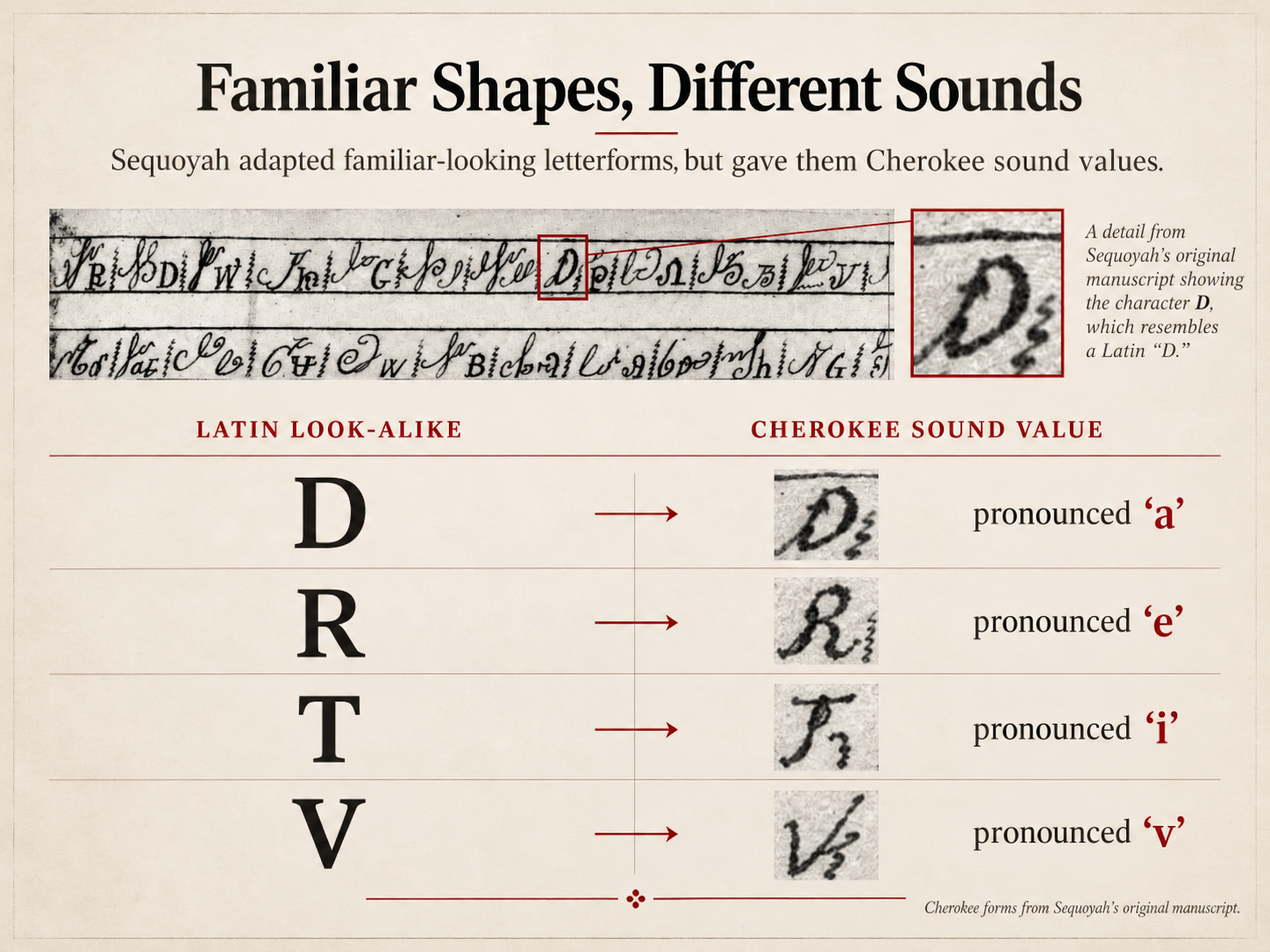
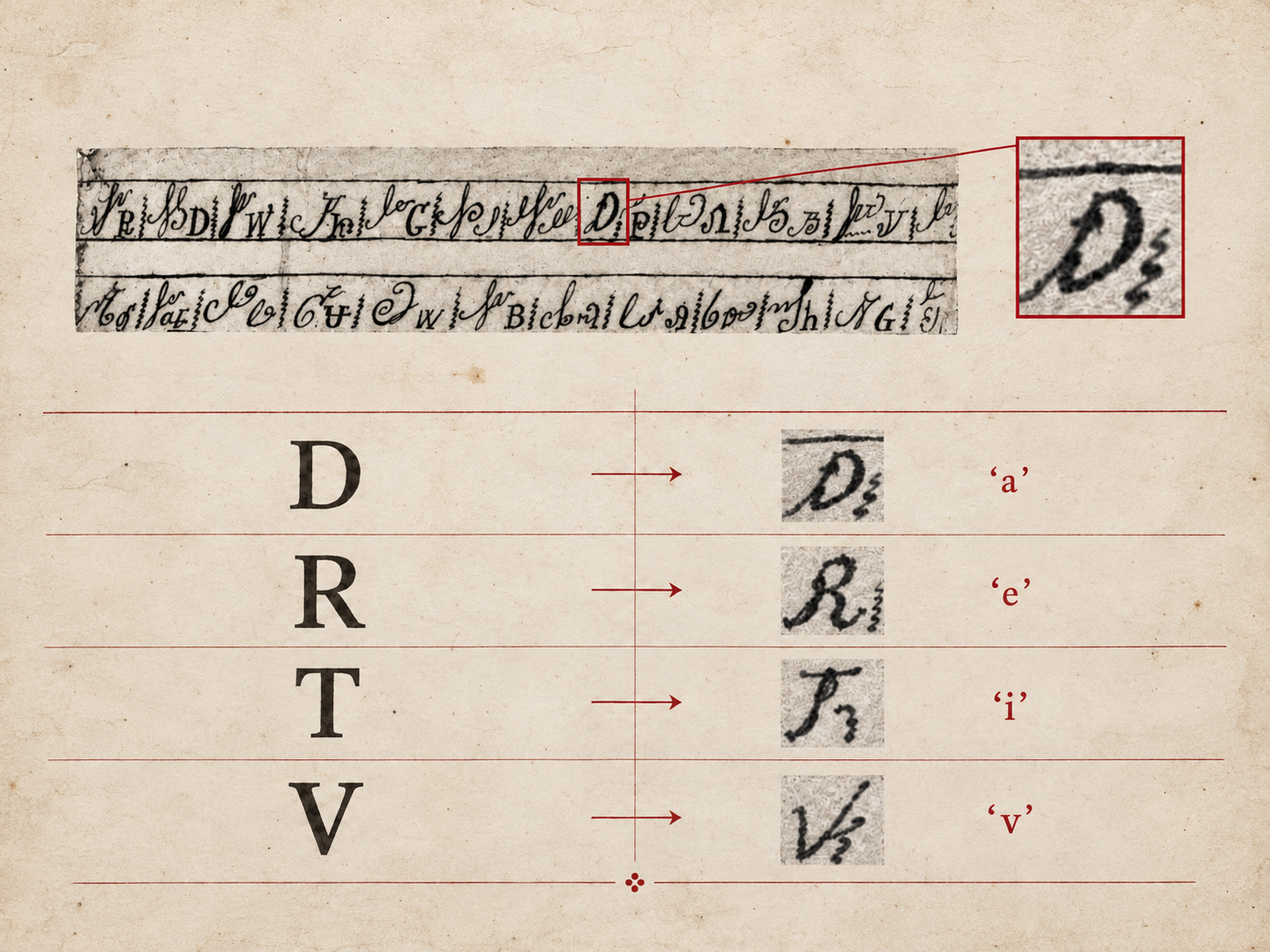
Add files via upload

diff --git a/index.html b/index.html
@@ -1,4 +1,4 @@
-<!doctype html><html lang="en"><head><meta charset="utf-8"><meta name="viewport" content="width=device-width, initial-scale=1"><meta name="description" content="Literacy gave the Cherokee standing to argue, not the power to decide. The standard for “civilization” was never theirs to set."><title>The Talking Leaves</title><link rel="stylesheet" href="styles.css"><script src="script.js" defer></script></head><body id="top"><a class="skip" href="#article">Skip to article</a><header class="masthead"><span>HISTORY / LANGUAGE / POWER</span></header><main><article id="article"><header class="hero"><div class="eyebrow">A history in writing</div><h1 data-original="0">The Talking Leaves</h1><p class="subtitle" data-original="1">Literacy gave the Cherokee standing to argue, not the power to decide. The standard for “civilization” was never theirs to set.</p><div class="hero-rule"><span>SEQUOYAH &amp; THE CHEROKEE NATION</span><span>1821 — TODAY</span></div></header>
+<!doctype html><html lang="en"><head><meta charset="utf-8"><meta name="viewport" content="width=device-width, initial-scale=1"><meta name="description" content="Literacy gave the Cherokee standing to argue, not the power to decide. The standard for “civilization” was never theirs to set."><title>The Talking Leaves</title><link rel="stylesheet" href="styles.css?v=portrait-oval-2"><script src="script.js" defer></script></head><body id="top"><a class="skip" href="#article">Skip to article</a><main><article id="article"><header class="hero"><div class="hero-copy"><h1 data-original="0">The Talking Leaves</h1><p class="subtitle" data-original="1">Literacy gave the Cherokee standing to argue, not the power to decide. The standard for “civilization” was never theirs to set.</p></div><figure class="hero-portrait"><img src="sequoyah-portrait.png" width="3308" height="4000" alt="Portrait of Sequoyah pointing to a tablet of Cherokee syllabary characters." fetchpriority="high"></figure></header>
 <section class="chapter" aria-labelledby="section-2"><h2 id="section-2" data-original="2">Nobody Believed Him</h2>
 <p data-original="3">Ayoka learned her father’s characters quickly. Each one stood for a syllable in the Cherokee language, and when he brought her before Cherokee leaders in the summer of 1821, nobody believed what he was about to claim.</p>
 <p data-original="4">He said he had found a way to write down the Cherokee language. They were not impressed. To them, a man who knew no English had no business inventing a script, and some in the room suspected he was practising something closer to witchcraft than scholarship.</p>
@@ -16,12 +16,12 @@
 <section class="chapter" aria-labelledby="section-14"><h2 id="section-14" data-original="14">He Took Their Shapes and Refused Their Sounds</h2>
 <p data-original="15">Sequoyah did not invent his characters out of thin air. He took the shapes off a page of English.</p>
 <p data-original="16">He went looking for a Bible or a spelling book to study the letterforms, unable to read a word of what he was looking at. He copied the shapes and gave them Cherokee values instead. His most famous character, Ꭰ, looks exactly like a Latin D. In Cherokee it is read “a.” The same trick recurs throughout the set of characters.</p>
-<figure class="archive-image" data-after="16"><img src="images/cherokee-syllabary-comparison.png" width="1448" height="1086" alt="Comparison of Latin-looking letterforms and Cherokee syllabary characters showing that familiar shapes carry different Cherokee sound values." loading="lazy" decoding="async"><figcaption>Familiar shapes, different sounds. Cherokee forms from Sequoyah’s original manuscript.</figcaption></figure>
+<figure class="archive-image" data-after="16"><img src="cherokee-syllabary-comparison.png" width="1448" height="1086" alt="Comparison of Latin-looking letterforms and Cherokee syllabary characters showing that familiar shapes carry different Cherokee sound values." loading="lazy" decoding="async"><figcaption>Familiar shapes, different sounds.</figcaption></figure>
 <p data-original="17">The usual version of this story treats him as a genius who could not read. Recent scholarship, most thoroughly by <a href="https://www.researchgate.net/publication/261929334_The_Cherokee_Syllabary_from_Script_to_Print" target="_blank" rel="noopener noreferrer">Ellen Cushman</a>, reads the syllabary instead as a Cherokee technology that helped shape Cherokee identity and strengthen the Nation’s political standing. “He could not read” is true, and it is also the framing that keeps the story safely inside an alphabetic worldview, where the only way to invent writing is to almost copy someone else’s. Whatever scholars later made of it, the syllabary worked.</p>
 <p data-original="18">Within a few years it had spread across the Nation, and by 1827 the Cherokee had a constitution of their own, with three branches and a two-house legislature, modelled on the United States Constitution.</p>
 <p data-original="19">Next came a printing press. The script had no type, so the Nation sent a young Cherokee named <a href="https://teachingamericanhistory.org/document/an-address-to-the-whites/" target="_blank" rel="noopener noreferrer">Elias Boudinot</a> north to raise money, and the missionary Samuel Worcester arranged for a font to be cast in Boston.</p>
 <p data-original="20">On February 21, 1828, the <a href="https://www.wcu.edu/library/digitalcollections/CherokeePhoenix/Vol1/no01/" target="_blank" rel="noopener noreferrer">first issue of the Cherokee Phoenix</a> came off that press, a weekly in Cherokee and English, edited by Boudinot and published by a nation Georgia insisted did not exist.</p>
-<figure class="archive-image" data-after="20"><a href="https://commons.wikimedia.org/wiki/File:Cherokee_Phoenix_first_issue.jpg" target="_blank" rel="noopener noreferrer"><img src="images/cherokee-phoenix-1828.jpg" width="1918" height="2880" alt="First issue of the Cherokee Phoenix newspaper from February 21, 1828, printed in Cherokee and English." loading="lazy" decoding="async"></a><figcaption>The first issue of the Cherokee Phoenix, February 21, 1828. Public domain. Source: American Antiquarian Society / Wikimedia Commons.</figcaption></figure>
+<figure class="archive-image" data-after="20"><a href="https://commons.wikimedia.org/wiki/File:Cherokee_Phoenix_first_issue.jpg" target="_blank" rel="noopener noreferrer"><img src="cherokee-phoenix-1828.jpg" width="1918" height="2880" alt="Upper half of the first issue of the Cherokee Phoenix, February 21, 1828, showing its masthead and Cherokee and English columns." loading="lazy" decoding="async"></a><figcaption>The first issue of the Cherokee Phoenix, February 21, 1828.</figcaption></figure>
 </section>
 <section class="chapter" aria-labelledby="section-21"><h2 id="section-21" data-original="21">They Won the Case Nobody Enforced</h2>
 <p data-original="22">Georgia had wanted the Cherokee gone since 1802, when it traded away its western land claims to Washington for a federal promise to clear Native people out of the state. By the 1820s its politicians were demanding that Washington keep that promise, and when <a href="https://www.georgiaencyclopedia.org/articles/counties-cities-neighborhoods/dahlonega/" target="_blank" rel="noopener noreferrer">gold turned up near Dahlonega</a> the state stopped waiting. It extended its laws over the Nation, surveyed Cherokee land, and began handing it out by lottery to white residents. In 1830 Congress passed the Indian Removal Act, giving the whole scheme federal backing.</p>
@@ -35,7 +35,7 @@
 <section class="chapter" aria-labelledby="section-29"><h2 id="section-29" data-original="29">The Standard Moved Every Time They Reached It</h2>
 <p data-original="30">White Americans came to call the Cherokee, Choctaw, Chickasaw, Creek and Seminole the “Five Civilized Tribes,” a label that sounded like praise but was really a shortlist assembled by people who had already decided what civilization looked like. In 1893, Congress used it to name the <a href="https://www.archives.gov/research/native-americans/dawes" target="_blank" rel="noopener noreferrer">commission</a> created to negotiate land allotment agreements that would ultimately dismantle their tribal governments.</p>
 <p data-original="31">Cherokee leaders had done nearly everything those standards called for: a written constitution, representative government, schools, settled farms. Recognition stayed conditional, and the terms kept changing. For decades U.S. officials had <a href="https://www.georgiaencyclopedia.org/articles/history-archaeology/cherokee-removal/" target="_blank" rel="noopener noreferrer">urged the Cherokee</a> to give up hunting and farm like white American settlers. Many did, and the pressure to leave only grew. The standard kept moving because the conflict was never really about literacy. It was about land, and who had the power to decide.</p>
-<figure class="archive-image" data-after="31"><a href="https://www.loc.gov/item/99446145/" target="_blank" rel="noopener noreferrer"><img src="images/royce-1884-cherokee-cessions.png" width="1313" height="1198" alt="Color-coded nineteenth-century map of the southeastern United States showing Cherokee territorial limits and land cessions made by treaty." loading="lazy" decoding="async"></a><figcaption>Adapted from Charles C. Royce’s 1884 map of Cherokee territorial limits and treaty cessions. Annotations added. Library of Congress, Geography and Map Division. <a href="https://www.loc.gov/item/99446145/" target="_blank" rel="noopener noreferrer">View full-size original map</a></figcaption></figure>
+<figure class="archive-image" data-after="31"><a href="https://www.loc.gov/item/99446145/" target="_blank" rel="noopener noreferrer"><img src="royce-1884-cherokee-cessions.png" width="1313" height="1198" alt="Color-coded nineteenth-century map of the southeastern United States showing Cherokee territorial limits and land cessions made by treaty." loading="lazy" decoding="async"></a><figcaption>Cherokee territorial limits and treaty cessions. Charles C. Royce, 1884; annotations added. <a href="https://www.loc.gov/item/99446145/" target="_blank" rel="noopener noreferrer">View full-size original map</a></figcaption></figure>
 <p data-original="32">Native leaders answered the colonizers’ standard in the colonizers’ own language, filing <a href="https://www.jstor.org/stable/44982305" target="_blank" rel="noopener noreferrer">letters, petitions and memorials</a> in English. It was not enough to stop removal.</p>
 <p data-original="33">The Nation’s most fluent writers lost the argument, and one of them signed the treaty that took the land. Boudinot had helped raise the money for the Phoenix and edited it until 1832, when he decided removal could not be stopped and wanted the paper to debate it. Chief John Ross forbade the Phoenix to print a word in favor of removal, and <a href="https://www.wcu.edu/library/DigitalCollections/CherokeePhoenix/Vol4/no52/cherokee-phoenix-page-2-column-3a-page-3-column-1a.html" target="_blank" rel="noopener noreferrer">Boudinot resigned</a>. The Nation’s own newspaper would not carry the argument he wanted to make, so he made it elsewhere, and in the end he made it with his signature.</p>
 <p data-original="34">Writing serves whoever picks it up. It carried an argument for staying and an argument for leaving, and it could not decide between them.</p>
@@ -44,4 +44,4 @@
 <p data-original="36">The records survived. The Phoenix can still be read today in both its languages, and the constitution and court briefs survive beside it. That record kept Cherokee resistance visible in the archives and institutions that later told the story of removal. The Potawatomi, driven from Indiana in the same autumn of 1838 on a march their descendants call the <a href="https://www.potawatomiheritage.com/encyclopedia/trail-of-death/" target="_blank" rel="noopener noreferrer">Trail of Death</a>, received less attention.</p>
 <p data-original="37">The language is another matter. In Tahlequah, Oklahoma, Cherokee Nation runs an immersion school where young children learn the syllabary as their way into a language most of their own grandparents no longer speak fluently. <a href="https://nisnresourcehub.org/wp-content/uploads/2021/01/Learning-to-Read-and-Write-Cherokee.pdf" target="_blank" rel="noopener noreferrer">Researchers who have studied the program</a> describe it less as a return to how Cherokee was once spoken than as an ongoing negotiation between two languages, carried out by children who move between them without much trouble. It is not the voice Ayoka read aloud in 1821. But it is not silence, either.</p>
 <p data-original="38">Writing did not stop the removal, and it has not saved the language. The United States could force the Cherokee west, but it could not write the last page. More than two hundred years after Ayoka read her father’s words aloud, children in Tahlequah are still reading Cherokee, in the characters he created.</p>
-</section></article><aside class="viewing" aria-labelledby="viewing-title"><div class="eyebrow" id="viewing-title">Further Viewing</div><a class="video-link" href="https://www.youtube.com/watch?v=7LSkfmCj8Jg" target="_blank" rel="noopener noreferrer"><span class="play" aria-hidden="true">▷</span><span><strong>Trail of Tears National Historic Trail</strong><small>National Park Service × Cherokee Nation · Watch on YouTube ↗</small></span></a></aside></main></body></html>
+</section></article><aside class="viewing" aria-labelledby="viewing-title"><div class="eyebrow" id="viewing-title">Further Viewing</div><a class="video-link" href="https://www.youtube.com/watch?v=7LSkfmCj8Jg" target="_blank" rel="noopener noreferrer"><span class="video-poster"><img src="royce-1884-cherokee-cessions.png" alt="" width="1313" height="1198" loading="lazy"><span class="play" aria-hidden="true">▶</span></span><span><strong>Trail of Tears National Historic Trail</strong><small>National Park Service × Cherokee Nation · Watch on YouTube ↗</small></span></a></aside></main></body></html>

diff --git a/styles.css b/styles.css
@@ -1,4 +1,40 @@
-:root{--paper:#e8ddb6;--ink:#161817;--muted:#5b604e;--rule:#aaa181;--accent:#633333;--dark:#161817;--dark-text:#ecede8}*{box-sizing:border-box}html{scroll-padding-top:30px}body{margin:0;background:var(--paper);color:var(--ink);font-family:Georgia,'Times New Roman','Nirmala UI',serif;font-size:18px;line-height:1.8}a{color:var(--accent);text-decoration-thickness:1px;text-underline-offset:3px}a:hover{color:#402020}a:focus-visible{outline:2px solid var(--accent);outline-offset:5px}::selection{background:#a9b4b9;color:#111}.skip{position:absolute;left:20px;top:-100px;padding:10px;background:var(--paper)}.skip:focus{top:10px}.masthead{max-width:1100px;margin:0 auto;padding:26px 0 18px;border-bottom:1px solid var(--rule);display:flex;justify-content:space-between;gap:20px;font:10px/1.5 Arial,sans-serif;letter-spacing:.13em}.masthead a{color:var(--muted);letter-spacing:.03em}main{padding:0 24px}.hero{max-width:960px;margin:90px auto 70px}.eyebrow{font:10px/1.6 Arial,sans-serif;text-transform:uppercase;letter-spacing:.2em;color:var(--muted)}h1{font-size:clamp(4.5rem,9vw,7.8rem);font-weight:400;line-height:.98;letter-spacing:-.058em;max-width:850px;margin:25px 0 32px}.subtitle{font-size:1.45rem;line-height:1.5;max-width:710px;color:#41484b;margin:0}.hero-rule{margin-top:42px;border-top:1px solid var(--rule);padding-top:14px;display:flex;justify-content:space-between;gap:16px;font:9px/1.5 Arial,sans-serif;letter-spacing:.15em;color:var(--muted)}.chapter{max-width:720px;margin:0 auto 58px}.chapter h2{font:700 14px/1.6 Arial,sans-serif;letter-spacing:.12em;border-top:1px solid var(--rule);padding-top:19px;margin:0 0 27px;color:#2c3032}.chapter p{margin:0 0 24px}.chapter .reading-moment{font-size:1.4rem;line-height:1.55;margin:40px 0}.archive-image{width:min(900px,calc(100vw - 48px));margin:40px 0 44px;position:relative;left:50%;transform:translateX(-50%)}img{display:block;width:100%;height:auto}.archive-image figcaption{font:12px/1.65 Arial,sans-serif;color:#42494c;border-bottom:1px solid var(--rule);padding:13px 0 16px;max-width:100%;overflow-wrap:anywhere}.archive-image figcaption a{white-space:normal}.chapter .pull-quote{width:min(870px,calc(100vw - 48px));position:relative;left:50%;transform:translateX(-50%);background:var(--dark);color:var(--dark-text);font-size:2.1rem;line-height:1.4;padding:52px 58px;margin:44px 0;letter-spacing:-.015em}.viewing{max-width:720px;margin:70px auto 68px;border-top:1px solid var(--rule);padding-top:20px}.video-link{display:flex;align-items:center;gap:22px;padding:22px 0;text-decoration:none}.video-link strong{display:block;font-size:20px;font-weight:400;line-height:1.4}.video-link small{display:block;font:11px/1.7 Arial,sans-serif;color:var(--muted);margin-top:9px}.play{font:40px/1 Georgia,serif}footer{max-width:960px;margin:auto;border-top:1px solid var(--rule);padding:28px 0 24px;font:12px/1.7 Arial,sans-serif;color:var(--muted)}footer h2{font:400 28px/1.3 Georgia,serif;color:var(--ink);margin:0 0 30px}.source-columns{display:grid;grid-template-columns:1fr 1.5fr;gap:64px}footer h3{font-size:10px;text-transform:uppercase;letter-spacing:.14em;font-weight:400}footer ul{list-style:none;padding:0;margin:16px 0}footer li{margin:0 0 12px}footer a{color:#41474a}.endline{margin-top:40px;padding-top:18px;border-top:1px solid var(--rule);display:flex;justify-content:space-between}.endline span{font-family:Georgia,serif;font-size:16px}@media(max-width:1150px){.masthead{margin:0 24px}}@media(max-width:767px){body{font-size:17px;line-height:1.8}main{padding:0 21px}.masthead{margin:0 21px;font-size:8px;letter-spacing:.06em}.masthead a{max-width:100px;text-align:right}.hero{margin:56px auto 48px}h1{font-size:clamp(3.2rem,14vw,4.8rem);letter-spacing:-.055em;margin:22px 0 26px}.subtitle{font-size:1.22rem}.hero-rule{font-size:8px;margin-top:30px;letter-spacing:.06em}.chapter h2{font-size:12px;letter-spacing:.09em}.chapter{margin-bottom:44px}.archive-image{width:100%;left:auto;transform:none;margin:30px 0}.chapter .pull-quote{width:100%;left:auto;transform:none;padding:34px 24px;font-size:1.7rem}.source-columns{grid-template-columns:1fr;gap:18px}.viewing{margin:48px auto}.video-link{gap:16px}.video-link strong{font-size:18px}}@media print{body{background:white;color:black}.masthead,.viewing,.endline,.skip{display:none}.hero{margin-top:20px}h1{font-size:60px}.chapter .pull-quote{background:none;color:black;border:1px solid black}.archive-image{break-inside:avoid}a{color:inherit}}
+:root{--paper:#f2ead2;--ink:#161817;--muted:#5b604e;--rule:#aaa181;--accent:#633333;--dark:#161817;--dark-text:#ecede8}*{box-sizing:border-box}html{scroll-padding-top:30px}body{margin:0;background:var(--paper);color:var(--ink);font-family:Georgia,'Times New Roman','Nirmala UI',serif;font-size:18px;line-height:1.8}a{color:var(--accent);text-decoration-thickness:1px;text-underline-offset:3px}a:hover{color:#402020}a:focus-visible{outline:2px solid var(--accent);outline-offset:5px}::selection{background:#a9b4b9;color:#111}.skip{position:absolute;left:20px;top:-100px;padding:10px;background:var(--paper)}.skip:focus{top:10px}.masthead{max-width:1100px;margin:0 auto;padding:26px 0 18px;border-bottom:1px solid var(--rule);display:flex;justify-content:space-between;gap:20px;font:10px/1.5 Arial,sans-serif;letter-spacing:.13em}.masthead a{color:var(--muted);letter-spacing:.03em}main{padding:0 24px}.hero{max-width:960px;margin:90px auto 70px}.eyebrow{font:10px/1.6 Arial,sans-serif;text-transform:uppercase;letter-spacing:.2em;color:var(--muted)}h1{font-size:clamp(4.5rem,9vw,7.8rem);font-weight:400;line-height:.98;letter-spacing:-.058em;max-width:850px;margin:25px 0 32px}.subtitle{font-size:1.45rem;line-height:1.5;max-width:710px;color:#41484b;margin:0}.hero-rule{margin-top:42px;border-top:1px solid var(--rule);padding-top:14px;display:flex;justify-content:space-between;gap:16px;font:9px/1.5 Arial,sans-serif;letter-spacing:.15em;color:var(--muted)}.chapter{max-width:720px;margin:0 auto 58px}.chapter h2{font:700 14px/1.6 Arial,sans-serif;letter-spacing:.12em;border-top:1px solid var(--rule);padding-top:19px;margin:0 0 27px;color:#2c3032}.chapter p{margin:0 0 24px}.chapter .reading-moment{font-size:1.4rem;line-height:1.55;margin:40px 0}.archive-image{width:min(900px,calc(100vw - 48px));margin:40px 0 44px;position:relative;left:50%;transform:translateX(-50%)}img{display:block;width:100%;height:auto}.archive-image figcaption{font:12px/1.65 Arial,sans-serif;color:#42494c;border-bottom:1px solid var(--rule);padding:13px 0 16px;max-width:100%;overflow-wrap:anywhere}.archive-image figcaption a{white-space:normal}.chapter .pull-quote{width:min(870px,calc(100vw - 48px));position:relative;left:50%;transform:translateX(-50%);background:var(--dark);color:var(--dark-text);font-size:2.1rem;line-height:1.4;padding:52px 58px;margin:44px 0;letter-spacing:-.015em}.viewing{max-width:720px;margin:70px auto 68px;border-top:1px solid var(--rule);padding-top:20px}.video-link{display:flex;align-items:center;gap:22px;padding:22px 0;text-decoration:none}.video-link strong{display:block;font-size:20px;font-weight:400;line-height:1.4}.video-link small{display:block;font:11px/1.7 Arial,sans-serif;color:var(--muted);margin-top:9px}.play{font:40px/1 Georgia,serif}footer{max-width:960px;margin:auto;border-top:1px solid var(--rule);padding:28px 0 24px;font:12px/1.7 Arial,sans-serif;color:var(--muted)}footer h2{font:400 28px/1.3 Georgia,serif;color:var(--ink);margin:0 0 30px}.source-columns{display:grid;grid-template-columns:1fr 1.5fr;gap:64px}footer h3{font-size:10px;text-transform:uppercase;letter-spacing:.14em;font-weight:400}footer ul{list-style:none;padding:0;margin:16px 0}footer li{margin:0 0 12px}footer a{color:#41474a}.endline{margin-top:40px;padding-top:18px;border-top:1px solid var(--rule);display:flex;justify-content:space-between}.endline span{font-family:Georgia,serif;font-size:16px}@media(max-width:1150px){.masthead{margin:0 24px}}@media(max-width:767px){body{font-size:17px;line-height:1.8}main{padding:0 21px}.masthead{margin:0 21px;font-size:8px;letter-spacing:.06em}.masthead a{max-width:100px;text-align:right}.hero{margin:56px auto 48px}h1{font-size:clamp(3.2rem,14vw,4.8rem);letter-spacing:-.055em;margin:22px 0 26px}.subtitle{font-size:1.22rem}.hero-rule{font-size:8px;margin-top:30px;letter-spacing:.06em}.chapter h2{font-size:12px;letter-spacing:.09em}.chapter{margin-bottom:44px}.archive-image{width:100%;left:auto;transform:none;margin:30px 0}.chapter .pull-quote{width:100%;left:auto;transform:none;padding:34px 24px;font-size:1.7rem}.source-columns{grid-template-columns:1fr;gap:18px}.viewing{margin:48px auto}.video-link{gap:16px}.video-link strong{font-size:18px}}@media print{body{background:white;color:black}.masthead,.viewing,.endline,.skip{display:none}.hero{margin-top:20px}h1{font-size:60px}.chapter .pull-quote{background:none;color:black;border:1px solid black}.archive-image{break-inside:avoid}a{color:inherit}}
 
 /* Updated visual direction: aged newspaper yellow and deep green headings. */
 h1,.chapter h2{color:#173f32}.subtitle{color:#465044}.eyebrow,.hero-rule{color:#59604c}.archive-image figcaption{color:#535746}::selection{background:#b7bea0;color:#173f32}
+/* Larger section headings and varied archival figure layouts. */
+.chapter h2{font-size:19px;line-height:1.45;letter-spacing:.045em;padding-top:23px;margin-bottom:27px}
+.archive-image[data-after="16"]{width:min(820px,calc(100vw - 48px))}
+.archive-image[data-after="20"]{width:min(900px,calc(100vw - 48px));display:grid;grid-template-columns:minmax(0,620px) minmax(0,190px);gap:32px;align-items:start}
+.archive-image[data-after="20"] figcaption{border-top:1px solid var(--rule);border-bottom:0;padding-top:15px;font-size:13px;line-height:1.8}
+.hero{margin-top:76px;margin-bottom:64px}
+@media(max-width:767px){.chapter h2{font-size:18px;letter-spacing:.035em}.archive-image[data-after="16"],.archive-image[data-after="20"]{width:100%;display:block}.archive-image[data-after="20"] figcaption{border-top:0;border-bottom:1px solid var(--rule);font-size:12px}.hero{margin-top:48px;margin-bottom:48px}}
+.archive-image figcaption,.archive-image[data-after="20"] figcaption{font-size:14px;line-height:1.65}
+@media(max-width:767px){.archive-image figcaption,.archive-image[data-after="20"] figcaption{font-size:14px}}
+
+/* Final desktop editorial refinements. */
+.chapter .pull-quote{background:transparent;color:#173f32;font-family:Georgia,'Times New Roman',serif;font-style:italic;font-size:2.25rem;line-height:1.5;padding:34px 26px 38px;border-top:1px solid #92967d;border-bottom:1px solid #92967d;margin-top:50px;margin-bottom:50px;max-width:850px}
+.viewing{max-width:900px;margin-bottom:72px}.video-link{display:block;padding:20px 0 0}.video-poster{display:block;position:relative;aspect-ratio:16/7;overflow:hidden;background:#d4d0b9;margin-bottom:19px}.video-poster img{height:100%;width:100%;object-fit:cover;object-position:center 55%;filter:grayscale(1);opacity:.65}.video-poster .play{position:absolute;left:50%;top:50%;transform:translate(-50%,-50%);width:76px;height:76px;border-radius:50%;background:#f2ead2;color:#173f32;display:grid;place-items:center;font-size:34px;padding-left:4px;border:1px solid #173f32}.video-link strong{font-size:23px;color:#173f32}.video-link:hover .play{background:#fff9e8}.video-link small{font-size:13px}.viewing>.eyebrow{font-size:13px}
+@media(max-width:767px){.chapter .pull-quote{font-size:1.65rem;padding:28px 12px}.video-poster{aspect-ratio:16/9}}
+/* Smaller figures following instructor feedback. */
+.archive-image[data-after="16"]{width:min(680px,100%)}
+.archive-image[data-after="20"]{width:min(720px,calc(100vw - 48px));grid-template-columns:minmax(0,460px) minmax(0,180px);gap:28px}
+.archive-image[data-after="31"]{width:min(720px,100%)}
+@media(max-width:767px){.archive-image[data-after="20"]{width:100%;display:block}.archive-image[data-after="20"]>a{display:block;max-width:460px;margin-inline:auto}}
+/* Show only the upper half of the newspaper while retaining the original asset. */
+.archive-image[data-after="20"]>a{display:block;aspect-ratio:1918/1440;overflow:hidden}
+.archive-image[data-after="20"]>a img{width:100%;height:auto;max-width:none}
+/* A small portrait alongside the opening, rather than a full-width hero image. */
+.hero{display:grid;grid-template-columns:minmax(0,1fr) 230px;gap:48px;align-items:center}
+.hero-copy{min-width:0}.hero h1{font-size:clamp(3.8rem,6.6vw,6rem);margin-top:0;line-height:1.02}.hero .subtitle{font-size:1.35rem;line-height:1.55}.hero-portrait{width:230px;margin:0}.hero-portrait img{display:block;width:100%;height:auto}
+@media(max-width:767px){.hero{grid-template-columns:minmax(0,1fr) 140px;gap:22px}.hero-portrait{width:140px}.hero h1{font-size:clamp(2.6rem,8vw,4rem)}.hero .subtitle{font-size:1.1rem}}
+@media(max-width:480px){.hero{grid-template-columns:1fr}.hero-portrait{width:140px;justify-self:end}.hero h1{font-size:3.2rem}}
+/* Final portrait, map, and reading hierarchy adjustments. */
+.hero{grid-template-columns:minmax(0,1fr) 280px;gap:42px}
+.hero-portrait{width:280px;aspect-ratio:4/5;overflow:hidden;border-radius:50%}
+.hero-portrait img{width:100%;height:100%;object-fit:cover;object-position:center center}
+.archive-image[data-after="31"]{width:min(650px,100%)}
+.chapter h2{font-size:23px;line-height:1.4}
+.chapter .reading-moment{font-size:19px;line-height:1.65;font-style:italic;margin:32px 0}
+@media(max-width:767px){.hero{grid-template-columns:minmax(0,1fr) 190px;gap:24px}.hero-portrait{width:190px}.chapter h2{font-size:22px}.chapter .reading-moment{font-size:18px}}
+@media(max-width:480px){.hero{grid-template-columns:1fr}.hero-portrait{width:190px;justify-self:end}}

diff --git a/README.md b/README.md
@@ -1,46 +1,9 @@
 # The Talking Leaves
 
-纯 HTML + CSS 静态杂志文章。正文直接写在 `index.html`，关闭 JavaScript 仍可完整阅读。
+纯 HTML + CSS 杂志网站，最终确认版本。
 
-## 修改
-- 正文：编辑 `index.html` 中带 `data-original` 的标题及段落。该属性仅用于逐段校验，网页不会显示它。
-- 样式：编辑 `styles.css`。按后续要求，背景已改为旧报纸浅黄 `#e8ddb6`，标题为深绿 `#173f32`。
-- 图片：位于 `images/`。替换时保留文件名，或同步修改 HTML 的 `src`、尺寸、alt 和图注。
-- `script.js` 目前只有注释，无必需脚本。
-- 根据后续要求，已删除 Sources & Further Reading 及其以下全部内容，同时移除页顶对应入口；正文 16 个来源链接保留。
+正文修改 index.html；样式修改 styles.css。图片与网页同放在仓库根目录。浅黄背景、深绿标题、椭圆肖像、斜体强调句，报纸显示上半部分，保留16个内联来源链接。
 
-## 图片说明
-- `cherokee-syllabary-comparison.png`：用户提供，位于 D/Ꭰ 段后。
-- `cherokee-phoenix-1828.jpg`：真正的 1828 年 2 月 21 日创刊号，来自 Wikimedia Commons / American Antiquarian Society，公有领域。用户提供截图实际上是 5 月 21 日第 13 期，因此未使用该截图。
-- `royce-1884-cherokee-cessions.png`：用户提供的全幅标注地图，保持原 PNG 格式，位于 land / power 段后。
-- 视频以 Further Viewing 外链呈现，无 iframe、无自动播放。视频缩略图下载超时，当前使用简洁播放符号及标题，不使用损坏图片占位。
+GitHub Pages：Settings → Pages → Deploy from a branch → main → /(root)。
 
-## 本地预览
-可直接双击 `index.html`。也可在此文件夹运行：
-
-```sh
-python -m http.server 8765
-```
-
-浏览器打开 http://localhost:8765。
-
-## GitHub Pages 部署
-计划使用 GitHub Pages，目标账号为用户指定的 `258967406-spec`。截至本说明生成时，尚未完成仓库创建和公网部署，等待浏览器账号登录稳定。
-1. 创建 public 仓库 `talking-leaves`。
-2. 将此文件夹中的 `index.html`、`styles.css`、`script.js`、`README.md`、`.nojekyll` 及 `images/` 上传到仓库根目录。
-3. Settings → Pages → Deploy from a branch → main → /(root) → Save。
-4. 等待部署完成，实际打开 GitHub 返回的网址确认无需登录访问。
-
-Cloudflare Pages 备用：上传相同文件，选择静态 HTML，无框架、无构建命令。
-
-## 以后更新正文
-直接修改 `index.html`，保持内联链接及段落顺序；提交到 main 后 Pages 会重新部署。若需严格对照新的最终稿，应重新逐字校验，不要仅凭页面目测。
-
-## 已完成检查
-- 39 个原稿文本块与 DOCX 逐字一致（只删除引用标号）。
-- 16 个内联链接 URL 与用户指定完全一致，全部新标签页打开并带安全 rel。
-- 没有残留引用标号；深色引文仅出现一次。
-- 三张图片位置正确；图片均有 alt。
-- 375px 手机视口无横向溢出。
-- 16 个来源均已通过 HTTP 请求或网页检索识别到对应页面／文档；部分站点对本机自动请求返回 403、406、超时或证书链错误，不能保证所有网络和地区都能直接访问。
-- 公网访问测试尚待实际部署后完成。
+肖像和对照图、标注地图由用户提供。Cherokee Phoenix 创刊号来自 American Antiquarian Society / Wikimedia Commons（公有领域）。Royce 原图：https://www.loc.gov/item/99446145/ 。视频封面使用地图作静态预览，并非视频截图。
